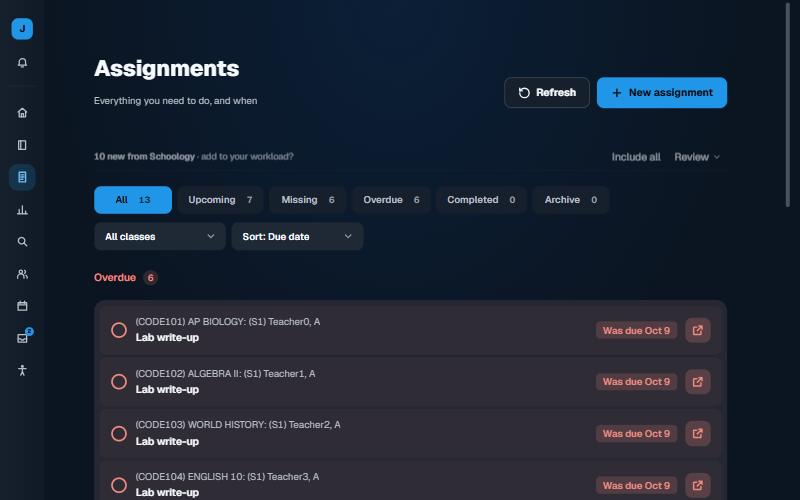
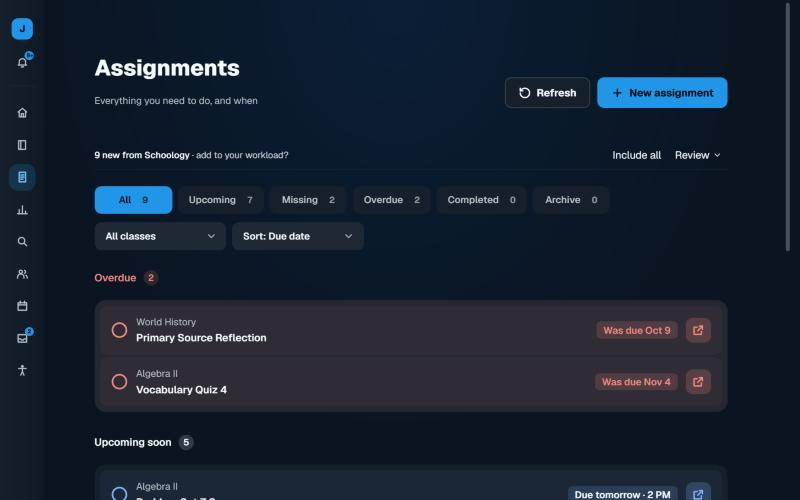
Demo data with varied assignments and course names; retake the screenshots

diff --git a/tests/mock-server.js b/tests/mock-server.js
@@ -14,7 +14,7 @@ const ups = [
   [204, 'assignment', 'Primary Source Analysis', 103, 3.3], [205, 'assignment', 'Reading Response: Ch. 9', 104, 4.2], [206, 'assignment', 'Quiz: Quadratics', 102, 6.1],
   [207, 'event', 'Picture Day', 104, 8.2], [208, 'assignment', 'Research Outline', 103, 11.1], [209, 'assignment', 'Midterm Exam', 104, 15.2],
 ];
-const overdue = [[301, 'Vocabulary Quiz 4', 102, -2], [302, 'Lab Safety Form', 101, -5]];
+const overdue = [[301, 'Vocabulary Quiz 4', 102, -2]];
 
 const upcomingHtml = (only) => '<div class="upcoming-list">' + ups.filter((u) => !only || u[1] === only).map(([id, t, title, c, off]) => {
   const d = at(off | 0, 8 + ((id % 7)), 0);
@@ -25,15 +25,21 @@ const coursesHtml = () => '<ul>' + courses.map(([id, n, s]) => `<li class="cours
 const feedHtml = () => '<ul id="feed">' + [['Ms. Rivera', 101, 'Reminder: bring your lab notebooks Thursday. We will start the enzyme unit.'], ['Mr. Chen', 102, '<strong>Quadratics quiz moved to Friday</strong> Review sheet is posted under Materials, and we will go over it in class on Thursday.'], ['Mrs. Patel', 104, 'Midterm study guide is uploaded. Office hours Wednesday after school.']]
   .map(([a, c, b], i) => `<li class="edge-item" id="n${i}"><div class="edge-sentence"><span class="update-sentence-inner"><a href="/user/${i}">${a}</a> posted in <a href="/course/${c}/materials">${courses.find((x) => x[0] === c)[1]}</a></span></div><div class="update-body s-rte">${b}</div><span class="update-time">${i + 1}h ago</span></li>`).join('') + '</ul>';
 const gradesHtml = () => '<ul class="s-grades-course-list">' + courses.map(([id, n, sec], i) => {
-  const row = (cls, title, extra, grade) => `<tr class="report-row ${cls}"><th class="title-column clickable"><div class="td-content-wrapper"><span class="title"><a>${title}<span class="visually-hidden">${cls.includes('item') ? 'assignment' : ''}</span></a></span>${extra || ''}</div></th><td class="grade-column">${grade}</td><td class="comment-column">${cls.includes('item') && title === 'Unit Test' ? 'Strong work on the free response.' : 'No comment'}</td></tr>`;
+  const row = (cls, title, extra, grade) => `<tr class="report-row ${cls}"><th class="title-column clickable"><div class="td-content-wrapper"><span class="title"><a>${title}<span class="visually-hidden">${cls.includes('item') ? 'assignment' : ''}</span></a></span>${extra || ''}</div></th><td class="grade-column">${grade}</td><td class="comment-column">${cls.includes('item') && title === 'Unit 4 Test' ? 'Strong work on the free response.' : 'No comment'}</td></tr>`;
   const item = (t, due, g, href) => row('item-row', href ? `<a href="${href}">${t}</a>` : t, `<span class="due-date"><span class="visually-hidden">Due</span> Due ${due}</span>`, g);
   const letter = ['A (94.24%)', 'B+ (88.1%)', 'A- (91.5%)', 'A (96%)'][i];
-  return `<li class="s-grades-course-item"><div id="s-js-gradebook-course-${id}" class="gradebook-course hierarchical-grading-report"><div class="gradebook-course-title">(CODE${id}) ${n.toUpperCase()}: (S1) Teacher${i}, A</div><div class="gradebook-course-grades"><table role="presentation"><tbody>` +
+  // each course has its own work; only one item across the demo is missing, so the screenshots are not a wall of overdue rows
+  const hw = [
+    [['Cell Structure Quiz', '9/18/26', '46 / 50'], ['Enzyme Lab Report', '10/02/26 11:59pm', '27 / 30', '/assignment/7001'], ['Photosynthesis Worksheet', '10/12/26', '—<span class="visually-hidden">This student has made a submission that has not been graded</span>'], ['Unit 5 Test Review', '11/05/26', '—']],
+    [['Problem Set 6.2', '9/22/26', '18 / 20'], ['Factoring Practice', '10/06/26', '20 / 20'], ['Problem Set 7.1', '10/20/26', '17 / 20'], ['Problem Set 7.3', '11/07/26', '—']],
+    [['Document Analysis: The Magna Carta', '9/25/26', '9 / 10'], ['Primary Source Reflection', '10/09/26 11:59pm', '<span class="visually-hidden"></span>Missing'], ['Map Skills Packet', '10/15/26', '48 / 50'], ['Primary Source Analysis', '11/09/26', '—']],
+    [['Reading Response: Ch. 5', '9/20/26', '10 / 10'], ['Vocabulary Set 3', '10/03/26', '19 / 20'], ['Reading Response: Ch. 8', '10/22/26', '9 / 10'], ['Reading Response: Ch. 9', '11/10/26', '—']],
+  ][i];
+  const tests = [[['Unit 4 Test', '10/20/26', '45 / 50']], [['Quadratics Quiz', '10/24/26', '46 / 50']], [['Ancient Rome Test', '10/27/26', '92 / 100']], [['Short Story Test', '10/28/26', '48 / 50']]][i];
+  return `<li class="s-grades-course-item"><div id="s-js-gradebook-course-${id}" class="gradebook-course hierarchical-grading-report"><div class="gradebook-course-title">${n}</div><div class="gradebook-course-grades"><table role="presentation"><tbody>` +
     row('course-row has-children', 'Course Grade', '', letter) + row('period-row has-children', 'S1 (2026-2027)', '<span> (100%)</span>', letter) +
-    row('category-row has-children', 'Homework', '<span> (10%)</span>', 'A (95.71%)') +
-    item('HW 1 See Description', '9/03/26', '5 / 5') + item('Lab Report', '11/03/26 11:59pm', '18 / 20', '/assignment/7001') + item('Unit 5 Test', '11/05/26', '—') + item('HW 2 Chapter review with a very long assignment name that should wrap onto several lines instead of stretching the whole table', '9/04/26', '18 / 20') +
-    item('Lab write-up', '10/09/26 11:59pm', '<span class="visually-hidden"></span>Missing') + item('Reading', '10/12/26', '—<span class="visually-hidden">This student has made a submission that has not been graded</span>') +
-    row('category-row has-children', 'Test', '<span> (60%)</span>', '—') + item('Unit Test', '10/20/26', '45 / 50') +
+    row('category-row has-children', 'Homework', '<span> (40%)</span>', 'A (95.71%)') + hw.map((x) => item(...x)).join('') +
+    row('category-row has-children', 'Tests', '<span> (60%)</span>', 'A (93%)') + tests.map((x) => item(...x)).join('') +
     `</tbody></table></div></div></li>`; }).join('') + '</ul>';
 
 // ---- course content, same markup as Schoology's /course/<id>/materials ----
